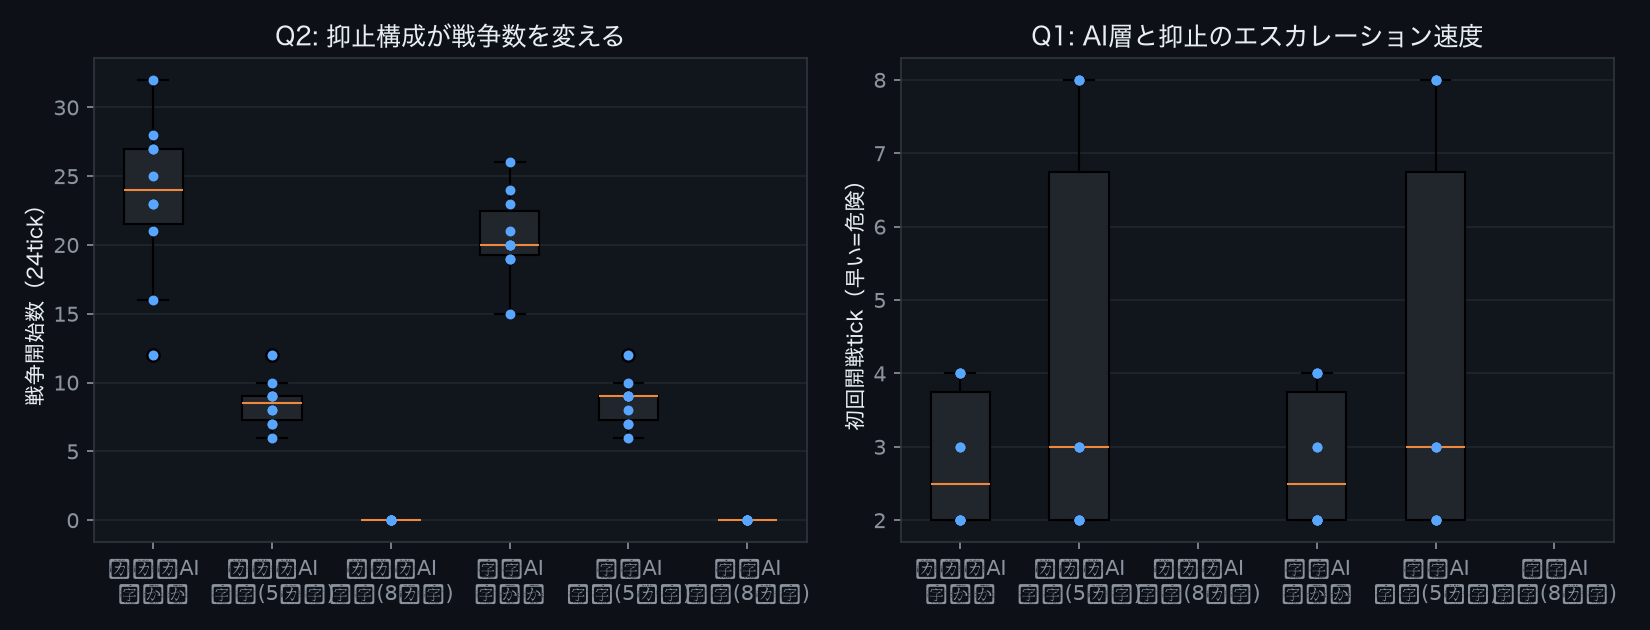
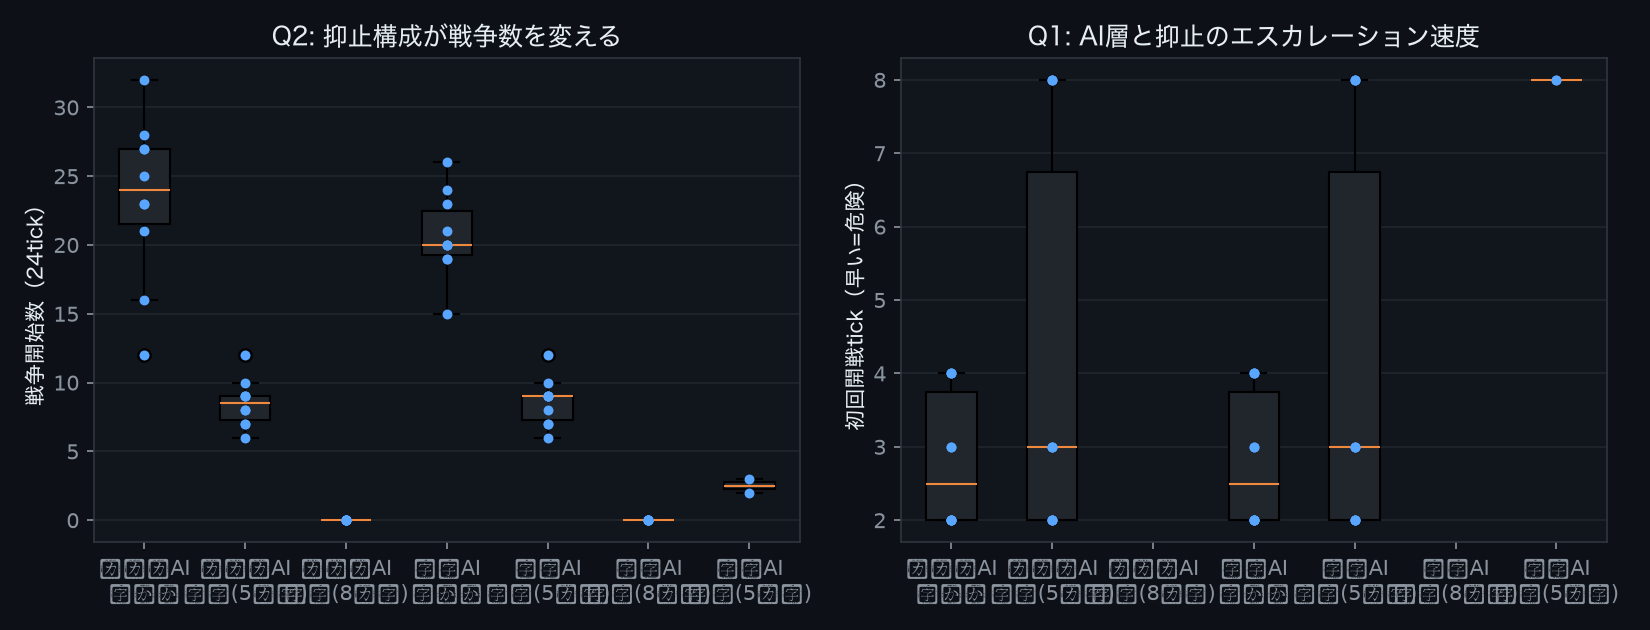
LLM arm result: GLM governments de-escalate (wars 2.5, first t8 vs t3 rule) - preliminary

diff --git a/README.md b/README.md
@@ -294,6 +294,9 @@ uv run python ../analysis/make_stability_fig.py   # → analysis/out/crisis_stab
   核保有国との大規模戦争は発生しない = 抑止は「頻度」ではなく「標的の選択」を変える）
 - ルールAIと学習AIの差は小さい（8.5 vs 8.6）= 戦術層のAI化は危機安定性を変えない、
   **構造（抑止構成）が支配する** → 意思決定AIのリスク議論は「構造との相互作用」に焦点を当てるべき
+- **思考AI（z.ai GLM、12tick×2run）: 戦争 2.5±0.5 件・初回開戦 t8** — ルールAI(t3)より
+  開戦が**遅く少ない**（協調的な外交判断がエスカレーションを緩和）。ただし12tick止まりなので
+  予備的観察として扱う（LLMは非決定論で高コスト、10seed×24tickは現実的でない）
 
 ## リアリズム層: 人口・労働・財政投資・為替・経常・CO2
 
